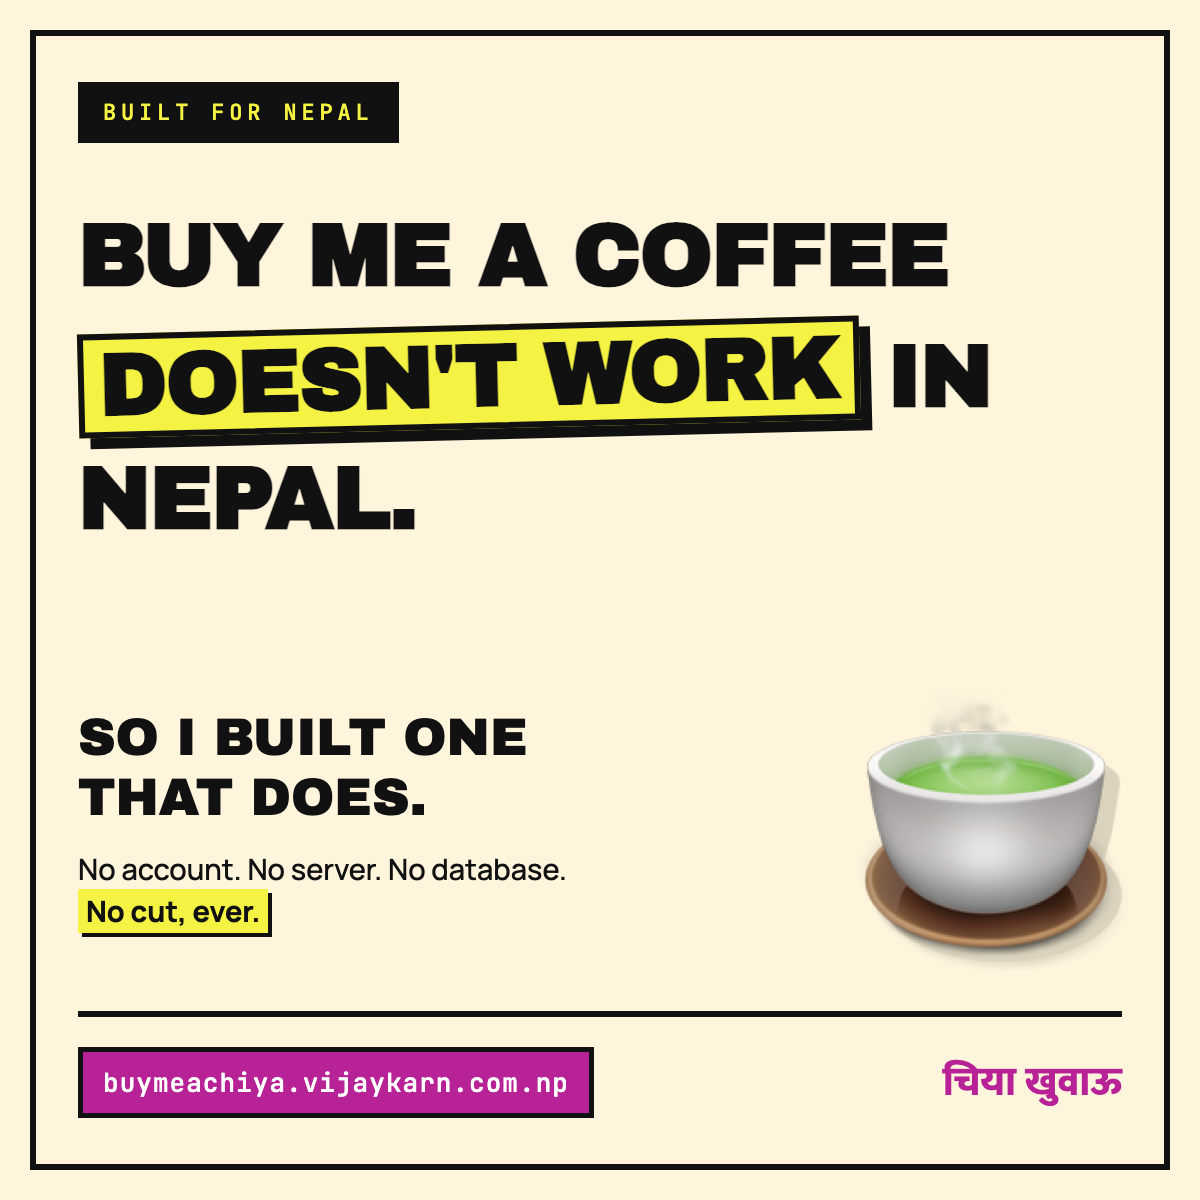
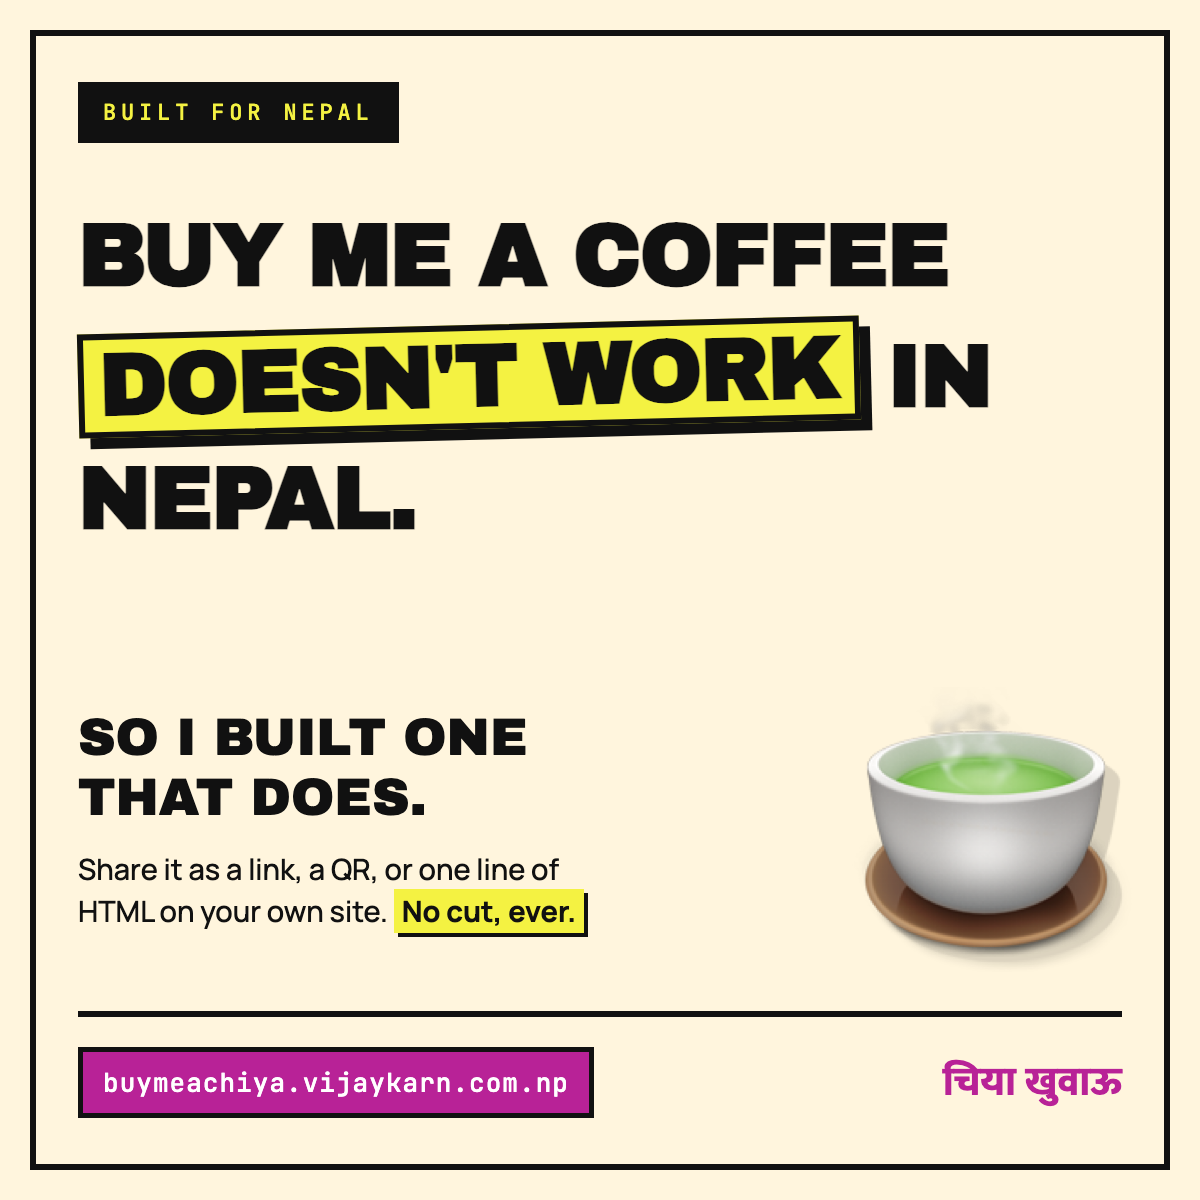
Refresh the share image for the new sharing options

Changed region(s): [[0.0617, 0.7092, 0.4933, 0.8017]]

diff --git a/linkedin-source.html b/linkedin-source.html
@@ -50,7 +50,7 @@ h1 .hl{
   <div class="mid">
     <div class="say">
       <div class="big">So I built one<br>that does.</div>
-      <div class="small">No account. No server. No database.<br><b>No cut, ever.</b></div>
+      <div class="small">Share it as a link, a QR, or one line of<br>HTML on your own site. <b>No cut, ever.</b></div>
     </div>
     <div class="cup">🍵</div>
   </div>
